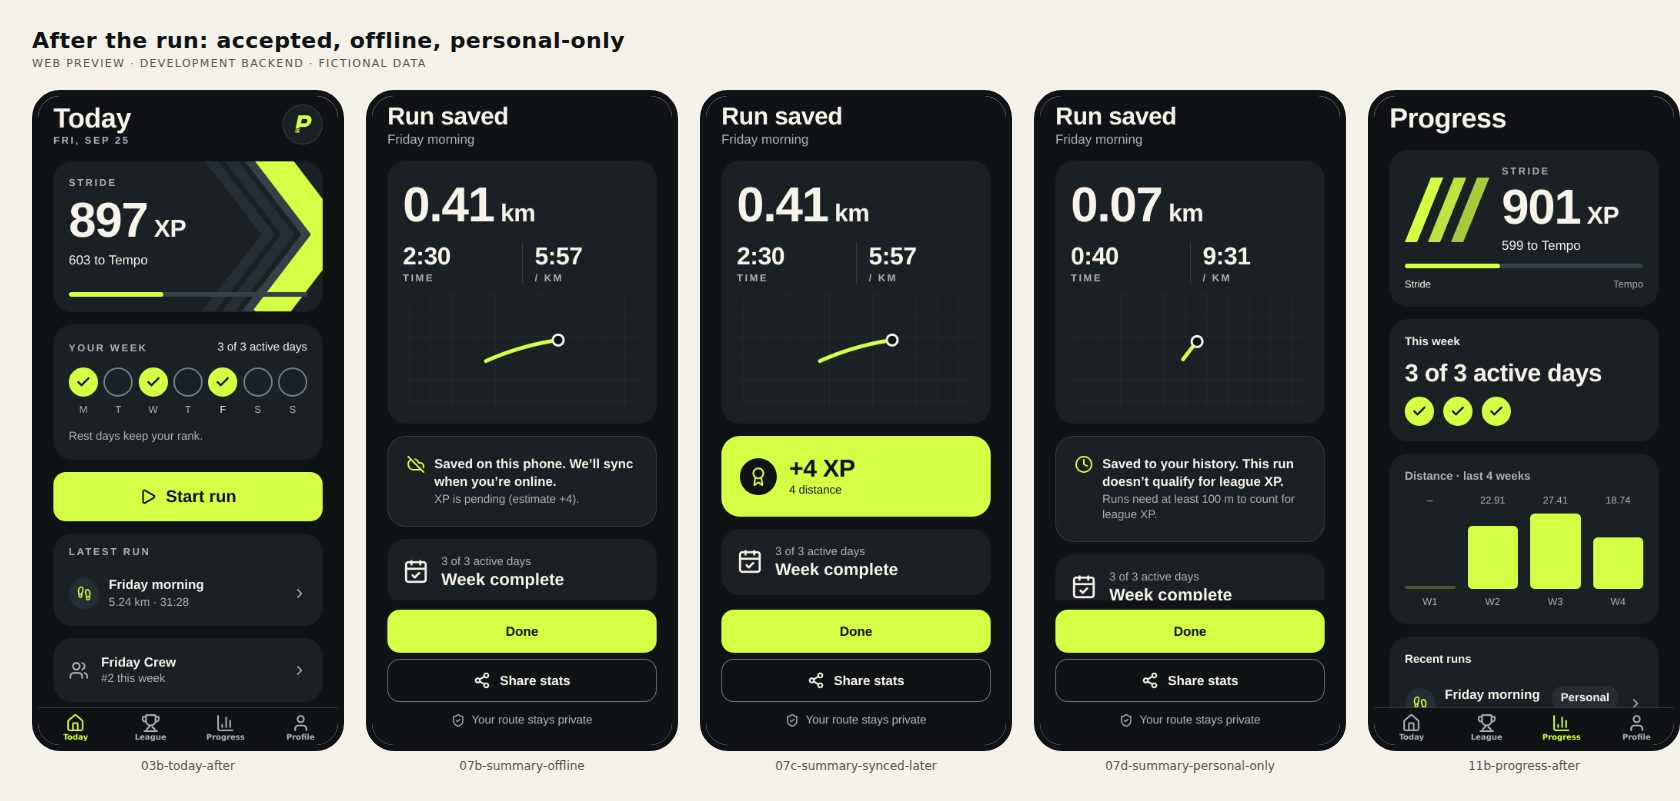
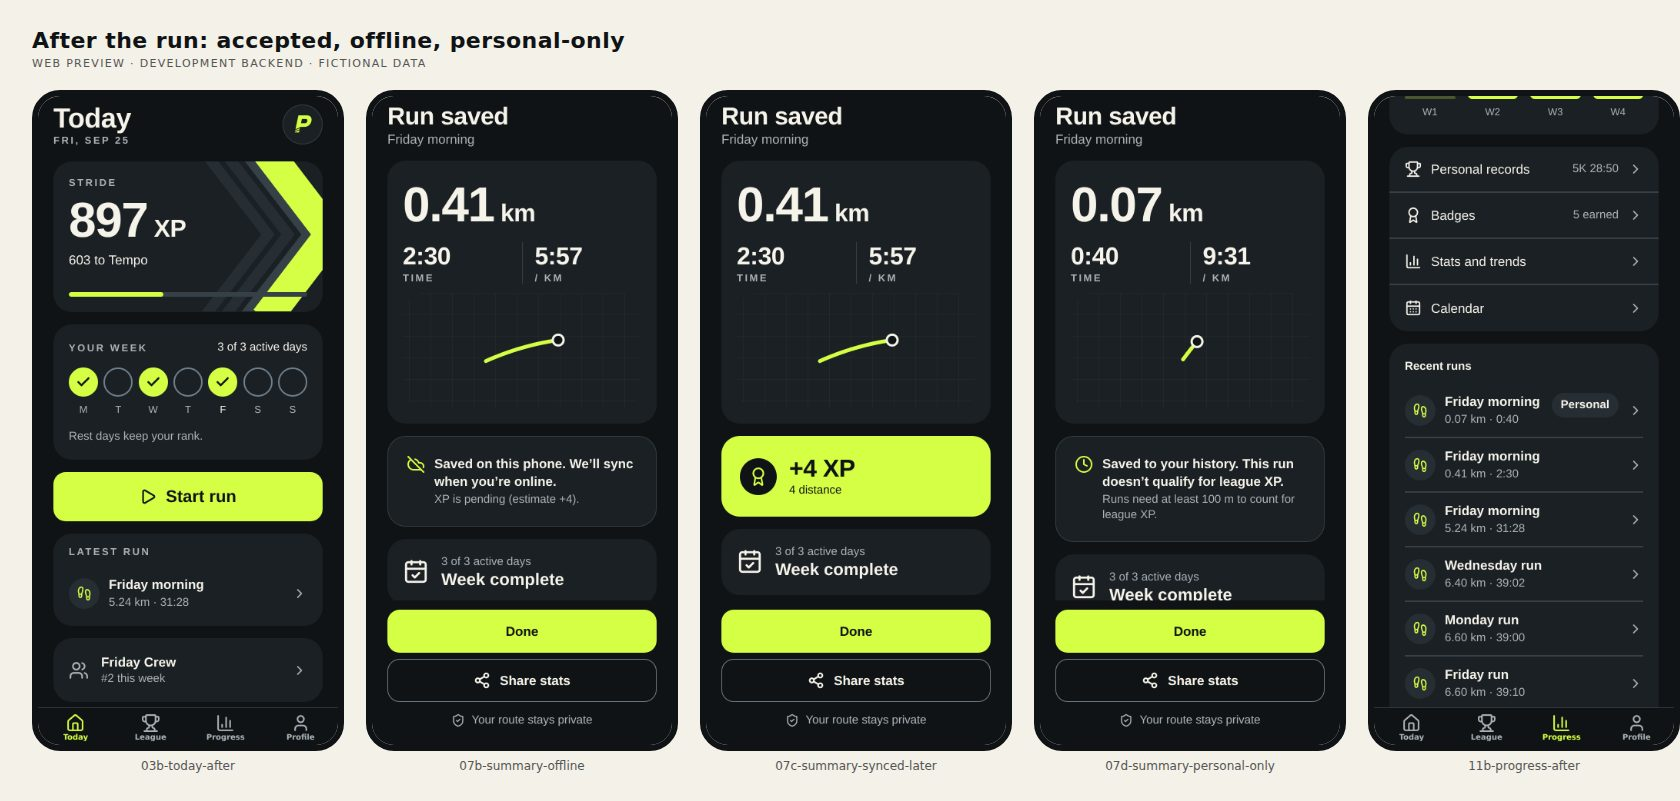
Document Phase 1: roadmap progress, status, device checks, operations and privacy
- ROADMAP: what each Phase 1 item became and what remains on device.
- STATUS: evidence per item and what still needs an iPhone.
- DEVICE_TEST_PROTOCOL: Phase 1 cases (audio matrix, auto-pause, pace,
  Live Activity, Apple Health, widget).
- OPERATIONS: the native extras, their build switches and signing.
- Privacy policy: notes, shoes, records, badges, streaks, cheers, fixed
  runs' originals, the lock-screen activity, the widget and Apple Health
  (write-only, never read, never sent to us).
- Evidence sheets 11-15 from the latest walkthrough; V1 sheets redrawn.

Claude-Session: https://claude.ai/code/session_01YN75PcghorReToUVJyyTfY

Changed region(s): [[0.8048, 0.0936, 0.9905, 0.5306], [0.8357, 0.5618, 0.9905, 0.8739]]

diff --git a/docs/ROADMAP.md b/docs/ROADMAP.md
@@ -88,6 +88,12 @@ Every requested item, and where it is planned. Epic numbers refer to the phase s
 | 4 | Friends, family and everyone | Leagues 2.0 with group runs, privacy zones, follow, feed, clubs, challenges, opt-in leaderboards, live location, push, teen family accounts | 23–36 weeks |
 | 5 | Maps | Route planning, offline maps and navigation, segments, heatmaps | 18–28 weeks |
 
+**Progress (28 September 2026).** Phase 0's age check and Phase 1 are built and tested in code:
+the server by 174 database tests, the app by 179 unit tests and a browser walkthrough of every
+new screen. What remains for Phase 1 is on-device: the Part C audio matrix and the other checks in
+DEVICE_TEST_PROTOCOL.md ("Phase 1 device checks"), the first native build of the new Swift and
+Kotlin code, and the recorded voice (content budget). Each item below says what was built.
+
 Sizes are rough engineer-weeks for one engineer working with Claude, before testing on devices.
 Sizes per epic: **S** is up to a week, **M** 1–3 weeks, **L** 3–6 weeks, **XL** more than 6.
 Content work (coach-written plans, recorded guided runs) runs alongside and needs a budget.
@@ -322,6 +328,7 @@ From the gap analysis, before inviting testers:
 - What: spoken splits, pace, time and distance, designed as in Part C.
 - How: a native audio module (Expo Modules API), a cue scheduler driven by the recorder's live
   metrics, the recorded voice set, and settings under Profile.
+- Built: `modules/voice-cue` (Swift: `.playback`/`.voicePrompt` session that ducks and hands audio back with `.notifyOthersOnDeactivation`; Kotlin: transient may-duck audio focus), the cue scheduler (`src/domain/cues.ts`), the cue controller and Run settings. The best installed system voice speaks until the recorded voice exists.
 - Done when: the Part C test matrix passes on two iPhone models.
 
 **1.2 Live pace, data screens and a lock-screen Live Activity** · M
@@ -329,6 +336,7 @@ From the gap analysis, before inviting testers:
   on the run screen. The run also shows on the lock screen and Dynamic Island.
 - How: smoothing in the recorder's live metrics. Software Mansion's `expo-live-activity`
   (iOS 16.2 and later) for the lock screen.
+- Built: current pace over 20 s of credited running, lap pace and lap time, up to three chosen numbers on the run screen, and our own ActivityKit Live Activity (`modules/run-activity` + `targets/widgets`) instead of `expo-live-activity`, whose template can't show a clock counting up.
 - Done when: current pace settles within 10 seconds of a pace change on a track test, and the
   Live Activity updates with the phone locked.
 
@@ -337,6 +345,7 @@ From the gap analysis, before inviting testers:
 - How: speed thresholds with a delay (for example, under about 1 m/s for 5 seconds pauses, over
   about 1.5 m/s for 3 seconds resumes). Motion data avoids false pauses from GPS jitter.
   Scoring already uses active time.
+- Built: `src/domain/auto-pause.ts` (0.6 m/s for 8 s pauses, 1.4 m/s for 3 s resumes, straight-line displacement over 5 s so jitter doesn't count), in the recorder, on by default with a switch. Motion-sensor input is not used yet.
 - Done when: traffic-light stops pause and resume on 10 test runs without a false pause while
   running.
 
@@ -346,6 +355,7 @@ From the gap analysis, before inviting testers:
 - How: the server finds the fastest stretch of each distance inside accepted runs, measured by
   distance and interpolated between GPS points. Existing runs are backfilled once. Records don't
   affect XP.
+- Built: `20260928000300_personal_records.sql`, the Records screen with each record's history, and best efforts on the run screen.
 - Done when: the computed results match hand-checked results on a golden set of routes, and
   deleting a run removes its records.
 
@@ -355,6 +365,7 @@ From the gap analysis, before inviting testers:
 - How: the edit is sent as a new version of the run. The server re-validates and re-scores it and
   keeps an audit trail. Edits can only remove distance, never add it. Merging keeps the two runs'
   distance and adds nothing for the gap between them. So edits can't be used to cheat. Leagues show a correction note, as they already do for deletions.
+- Built: `20260928000700_run_edits.sql` and the Fix screen. The phone previews every fix with the server's rules (a DB test shows they agree to the centimetre); stops are found along the route for one-tap cuts.
 - Done when: trimming updates XP and standings the same way a deletion does, and a trimmed run
   can never score more than the original.
 
@@ -364,6 +375,7 @@ From the gap analysis, before inviting testers:
 - How: `@kingstinct/react-native-healthkit` (Expo config plugin) writes the workout and route
   when the run is saved, and removes them if the runner deletes the run. It asks for write
   permission only when the runner switches this on.
+- Built: `src/features/health/apple-health.ts` on `@kingstinct/react-native-healthkit`, a Run settings switch, rewrite after fixes and removal on delete.
 - Done when: a run saved on the phone appears in the Fitness app with its map, exactly once, and
   deleting the run removes it.
 
@@ -371,6 +383,7 @@ From the gap analysis, before inviting testers:
 - What: weekly, monthly and yearly totals, the same period last year, a custom date range,
   pace trend and personal-record history.
 - How: server aggregates over accepted runs, cached per week.
+- Built: `20260928000600_stats.sql` and the Stats screen (12 weeks, 12 months, this year, 5 years or custom; runs, walks or all; a year earlier; pace trend).
 - Done when: totals match the run log exactly for any range.
 
 **1.8 Badges and achievements** · M
@@ -383,6 +396,7 @@ From the gap analysis, before inviting testers:
   - The streak counts by each run's start date, so a late sync or import never breaks it.
   - Pausing a plan for illness or travel freezes it.
   - No "you're about to lose your streak" notifications (REQ-012).
+- Built: `20260928000400_streaks_badges.sql`, the streak card and the Badges screen. League-win badges wait for Leagues 2.0.
 - Done when: every badge rule has a test, deleting the run that earned a badge removes it, and a
   run synced days late still extends the streak for the week it was run.
 
@@ -391,17 +405,20 @@ From the gap analysis, before inviting testers:
   the league, with nothing to moderate.
 - How: a cheers table (who cheered whom, for which day), limited per day. Cheers are shown to the
   runner being cheered and to their league.
+- Built: `20260928000500_league_cheers.sql` and cheer buttons on the standings.
 - Done when: blocked runners can't cheer each other, and cheers disappear with a deleted account.
 
 **1.10 Run log extras** · S
 - What: notes on a run, shoe tracking with mileage and a replacement reminder, a calendar view,
   and search and filter. This makes the log complete, the thing Strava is praised for.
 - How: new columns and tables. Shoes are private.
+- Built: `20260928000200_run_log.sql`, notes and shoe on each run, the Shoes screen, the calendar with search, and export format 2 (`20260928000800_export_v2.sql`).
 - Done when: notes and shoes are included in the data export.
 
 **1.11 Home-screen widgets** · S–M
 - What: this week's goal progress and league rank on the home screen (Garmin reviewers ask for this).
 - How: a WidgetKit extension added with `@bacons/apple-targets`, fed from shared app-group storage.
+- Built: the "this week" widget (home screen small and medium, lock screen circular, rectangular and inline) in `targets/widgets`, fed through the App Group.
 - Done when: the widget updates within 15 minutes of a synced run.
 
 **Phase 1 is done when** it has passed the Part C audio tests and had zero lost runs during

diff --git a/legal/privacy-policy.md b/legal/privacy-policy.md
@@ -25,12 +25,14 @@ PaceLeague is in a beta for adults (18 and over) in the United States.
 ### Your runs
 
 - While you record a run, your phone's precise location: coordinates, times, accuracy and related readings. If you allow it, this continues while the screen is locked or the app is in the background, but only during a run you started. Before a run, the app briefly checks your location on the start screen to confirm a good GPS signal. PaceLeague does not collect your location at any other time.
-- What we calculate from a run: distance, time, pace, splits, XP, and which competition days it counts toward.
-- The titles you give your runs.
+- What we calculate from a run: distance, time, pace, splits, XP, which competition days it counts toward, your fastest times for set distances (personal records), badges and your weekly streak.
+- The titles, activity types and private notes you give your runs, and the shoes you track (their names, the distance you set for a replacement reminder, and which runs you wore them for).
+- If you fix a run (trim it, cut out a stop, change its activity or merge two runs), we keep the run as it was first saved, so you can restore it.
 
 ### Leagues and safety
 
 - The leagues you create or join, the invites you create, and weekly standings.
+- Cheers: who in your league cheered whom, and in which week.
 - Reports you send, runners you block, and moderators' decisions about reports.
 
 ### Technical information
@@ -40,7 +42,13 @@ PaceLeague is in a beta for adults (18 and over) in the United States.
 
 ### On your phone
 
-The app keeps your runs and any uploads that are waiting in an encrypted database on your phone, protected by a key in the iOS Keychain. This is what lets you record without a connection. Each account on the phone has its own database.
+The app keeps your runs and any uploads that are waiting in an encrypted database on your phone, protected by a key in the iOS Keychain. This is what lets you record without a connection. Each account on the phone has its own database. Your run settings (voice cues, auto-pause, the numbers on the run screen) are kept there too.
+
+While you run, your distance, time and pace are shown on your lock screen and in the Dynamic Island, so anyone who can see your phone can see them. You can turn this off for PaceLeague in the iPhone's Settings. If you add the PaceLeague widget, this week's active days, weekly XP and league place are stored on your phone where the widget can read them; they're removed when you sign out.
+
+### Apple Health
+
+Only if you turn on "Save runs to Apple Health": when you finish a run, PaceLeague saves it to Apple Health as a workout with its time, distance and route. If you delete or fix the run in PaceLeague, we delete or update that workout. PaceLeague never reads your Health data, and what we write to Health stays in Health on your device (and in iCloud if you use it); it isn't sent to us. We don't use Health information for advertising or share it with anyone. You can stop it at any time in Run settings or in the Health app.
 
 ## How we use it
 
@@ -54,7 +62,7 @@ We don't use your information for advertising, and we don't sell it or share it 
 ## Who can see what
 
 - You can see everything in your account, including your routes.
-- Your league sees your runner name, tier and weekly XP. Nothing about where you ran.
+- Your league sees your runner name, tier and weekly XP, and how many cheers you received this week. Nothing about where you ran. Your notes, shoes, records, badges and streak are visible only to you.
 - If you use Share, the image shows only distance, time and pace, with no map or location, and you choose where it goes.
 - Moderators working for us see reports and what they need to decide them. Routes are never part of moderation.
 - Service providers process data on our behalf to run PaceLeague: Railway hosts the service and its database in the United States. Apple provides Sign in with Apple if you use it, draws the maps in the app with Apple Maps (so the map areas you view are requested from Apple), and distributes the app through TestFlight and the App Store under Apple's own privacy policy.
@@ -64,7 +72,7 @@ We don't use your information for advertising, and we don't sell it or share it 
 
 ## How long we keep it
 
-- Your account, profile, runs and routes: until you delete them or your account.
+- Your account, profile, runs and routes: until you delete them or your account. The same goes for notes, shoes, records, badges, streak weeks, cheers and the saved original of a fixed run (until you restore it, delete the run or delete your account).
 - Deleting a run removes its route and details right away. A small placeholder with no location stays so your devices stay in sync.
 - Deleting your account hides you from your league immediately and removes your data within 7 days (usually within minutes). Copies may remain in backups for up to 30 days before they are overwritten.
 - App events: 14 days. Rate-limit records: 2 days. Resolved reports: 90 days after they are resolved. Expired invites: 30 days. Export files: 24 hours. Uploads that were never finished: 7 days. A record that an account deletion was completed, without your data: 30 days.

diff --git a/docs/STATUS.md b/docs/STATUS.md
@@ -82,6 +82,30 @@ Summary "+77 XP · 52 distance + 25 active day", the stats-only poster). Intenti
 packet instructs); the web preview draws routes on a plain grid instead of Apple Maps; League rows
 also show each runner's tier.
 
+## Roadmap work after V1 (docs/ROADMAP.md)
+
+Snapshot 28 September 2026. Phase 0's age check and all of Phase 1 are built. As with V1, the
+logic and screens are proven automatically; nothing that needs an iPhone is.
+
+| Item | Evidence | Still required |
+|---|---|---|
+| Age check at sign-up (Phase 0) | `age-check.test.ts` (21), `age.test.ts` (11): minors locked out of leagues, export and deletion still work | Declared Age Range on iOS 26 and Play Age Signals on device |
+| Voice cues (1.1) | `run-feedback.test.ts`, `voice.test.ts`: cue timing, catch-ups, no replay after a relaunch, mid-run setting changes, the speech fallback | P1-AUDIO (the Part C matrix); first native build of `modules/voice-cue`; the recorded voice |
+| Live pace, run-screen numbers, Live Activity (1.2) | `run-feedback.test.ts`, `laps.test.ts`, `live-activity.test.ts` (start, throttled updates, final numbers, discard) | P1-PACE, P1-LIVE; first native build of `modules/run-activity` and `targets/widgets` |
+| Auto-pause (1.3) | `run-feedback.test.ts`, `recorder.test.ts`: pauses dated to the stop, no flicker at a slow jog, jitter ignored, manual pause never auto-resumes | P1-AUTOPAUSE |
+| Personal records (1.4) | `records.test.ts`; screens in the walkthrough | — |
+| Fix a run (1.5) | `run-edits.test.ts` (trim, cut, type, merge, undo; edits never add distance or promote a run), `run-fix.test.ts`, and `phase1-client.test.ts` showing the phone's preview equals the server's result | — |
+| Apple Health (1.6) | `apple-health.test.ts`: written once, off or denied writes nothing, rewritten after a fix, removed on delete | P1-HEALTH |
+| Stats (1.7), badges and streak (1.8), cheers (1.9), run log (1.10) | `streaks.test.ts`, `cheers-stats.test.ts`, `export-v2.test.ts`, `phase1-client.test.ts` (every new client call against the real SQL), `stats-ranges.test.ts` | — |
+| Widget (1.11) | `live-activity.test.ts` (widget numbers); prebuild creates the extension, App Group and entitlements | P1-WIDGET |
+
+Totals: 179 unit tests and 174 database tests passing; the browser walkthrough covers every new
+screen (62 screenshots, no browser errors; sheets 11–15 in [evidence/web](evidence/README.md)).
+`npx expo prebuild` generates the widget target, the HealthKit and App Group entitlements and
+links the three local modules; the Swift and Kotlin have not been compiled here (no Xcode or
+Android SDK in this environment), so the first EAS build is their compile check. If it fails,
+`PL_WIDGETS=0` or `PL_HEALTHKIT=0` leaves that piece out (OPERATIONS.md, "Native extras").
+
 ## Known gaps before a pilot
 
 1. **F01 on two physical iPhones** — the packet's first gate. Nothing about background GPS,

diff --git a/docs/DEVICE_TEST_PROTOCOL.md b/docs/DEVICE_TEST_PROTOCOL.md
@@ -47,6 +47,19 @@ record the failure and evaluate a native recorder before building further.
 | EV-012 | Turn reminder on/off; deny notifications; sign out; change time zone; cross a DST change | Exactly one reminder or none; denial leaves the app fully usable; sign-out cancels |
 | EV-014 | VoiceOver: start, pause, finish, find the result, initiate deletion; Larger Accessibility Sizes at the maximum on the smallest supported iPhone; Reduce Motion; bright sunlight | No unlabelled or unreachable control; no clipped primary action or overlapping metrics; values readable outdoors |
 
+## Phase 1 device checks (docs/ROADMAP.md)
+
+Run these on a build made from the `pilot` profile. None of them can be proven in the browser.
+
+| Case | Steps | Pass criteria |
+|---|---|---|
+| P1-AUDIO | The Part C matrix: Apple Music, Spotify, YouTube Music, Apple Podcasts, Overcast and Audible; AirPods, other Bluetooth headphones and the phone speaker; screen locked, Low Power Mode, an incoming call, Siri, an alarm. Cues every ½ km and "Splits only". Pull the headphones out mid-run with "Use the speaker…" off, then on | Music back to full volume within 1 s of every cue; podcasts resume after every cue; no cue longer than 4 s in "Splits only"; no cue after the run ends; with the speaker option off, no cue plays from the speaker after the headphones come out; the first word isn't clipped on Bluetooth |
+| P1-AUTOPAUSE | 10 runs with traffic-light stops; one run at a slow jog; stand still with the phone in hand for 2 minutes | Every stop pauses and resumes; no false pause while running or jogging; stopped time isn't in active time |
+| P1-PACE | Track test: laps at two different paces | Current pace settles within 10 s of each pace change; lap pace and lap time restart at each kilometre (mile for imperial) |
+| P1-LIVE | Start a run, lock the phone; pause and resume from the lock screen by opening the app; finish; discard a second run | The lock screen and Dynamic Island show distance, pace and a running clock that stops on pause; the saved numbers stay after finishing; a discarded run's activity disappears at once |
+| P1-HEALTH | Switch on "Save runs to Apple Health" (allow, then deny on a second device); finish a run; fix it; delete it | Allow: the run appears in Fitness with its map exactly once; after the fix it shows the fixed distance; after deletion it's gone. Deny: the app explains how to allow it and saves nothing |
+| P1-WIDGET | Add the small, medium and lock-screen widgets; finish and sync a run; wait for Monday | Each widget shows active days, weekly XP and league place, updates within 15 minutes of the sync, and resets when the week turns; signing out clears it |
+
 ## Log template
 
 ```

diff --git a/docs/OPERATIONS.md b/docs/OPERATIONS.md
@@ -224,6 +224,26 @@ build for Beta App Review. The build declares no non-exempt encryption; the app 
 database with SQLCipher, so confirm that declaration against Apple's export-compliance guidance
 before external testing.
 
+### Native extras (Phase 1)
+
+The app has three native pieces beyond V1, all in this repository and switched on by default:
+
+- **Voice cues** (`modules/voice-cue`, Swift and Kotlin): speaks run cues while lowering other
+  audio. It needs the `audio` background mode, which `app.config.ts` adds.
+- **Widget extension** (`targets/widgets`, built by `@bacons/apple-targets`) with the run Live
+  Activity (`modules/run-activity`) and the "this week" widget. It adds the App Group
+  `group.<bundle id>` to the app and the extension, and an extension bundle id `<bundle id>.widgets`.
+  EAS creates its provisioning profile on the next build; if Apple asks, register the App Group
+  for both identifiers in the developer portal.
+- **Apple Health** (`@kingstinct/react-native-healthkit`): adds the HealthKit capability to the
+  app. Runners switch it on in Run settings.
+
+If a build fails in one of them, leave it out while you look into it: `PL_WIDGETS=0` or
+`PL_HEALTHKIT=0` in the build profile's `env` (the app hides what isn't built in). For local
+Xcode builds of the widget, set `APPLE_TEAM_ID`. App Store Connect's privacy questionnaire needs
+"Health & Fitness" data declared as not collected (it stays on the device), and App Review expects
+the HealthKit use to be described in the app's privacy policy (done in `legal/privacy-policy.md`).
+
 ## Flags
 
 Stored in `private.app_flags`; every change needs a reason and an actor and is audited.

diff --git a/docs/evidence/README.md b/docs/evidence/README.md
@@ -19,6 +19,11 @@ side-by-side comparison.
 | `08-run-detail.jpg` | Private route, splits |
 | `09-profile.jpg` | Profile and its sub-screens |
 | `10-export-and-deletion.jpg` | Export ready, deletion consequences, confirmation, signed out afterwards |
+| `11-p1-run-and-settings.jpg` | Phase 1: the run screen with current and average pace and the voice-cue mute button, Run settings (voice cues, frequency, fields, volume, speaker fallback, run-screen numbers, auto-pause), shoes |
+| `12-p1-records-badges.jpg` | Phase 1: Progress with the weekly streak and new entries, personal records and how one improved, badges with progress |
+| `13-p1-stats-calendar.jpg` | Phase 1: stats by week and by month against a year earlier, the run calendar, one day, search |
+| `14-p1-fix-a-run.jpg` | Phase 1: best efforts and a private note on a run; fixing it (trim, preview, merge candidates), the saved fix (−3 XP), the run marked Edited, and restoring the original (+3 XP) |
+| `15-p1-cheers.jpg` | Phase 1: cheering a league-mate |
 
 Regenerate: start the backend and web app as in the README, then
 
